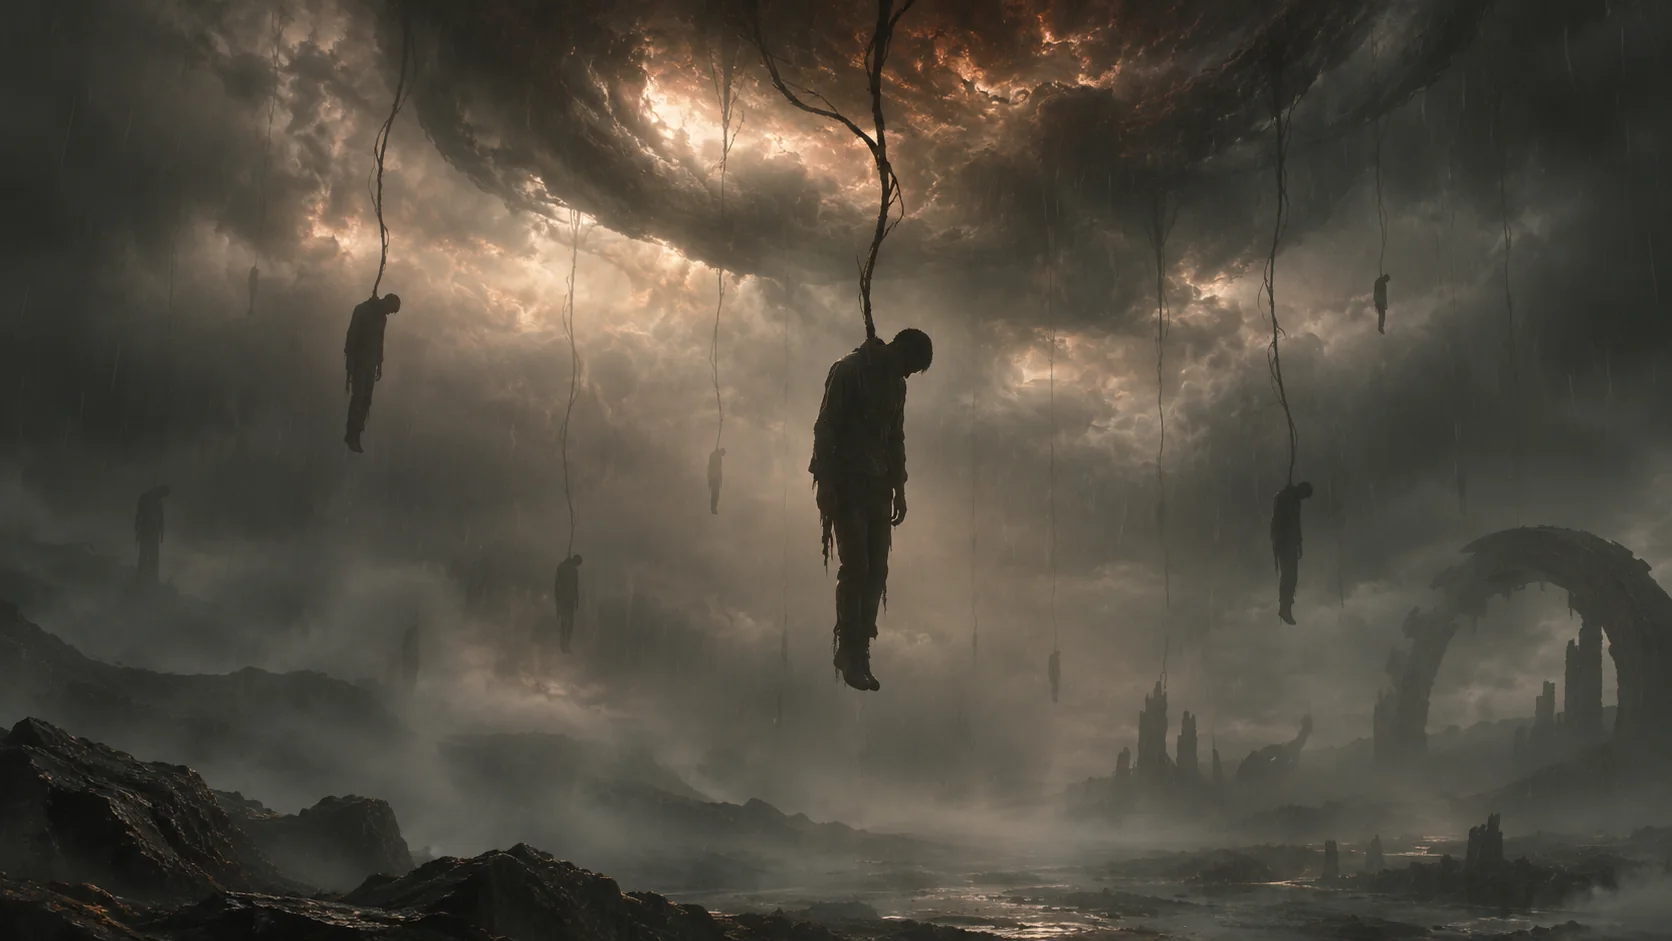
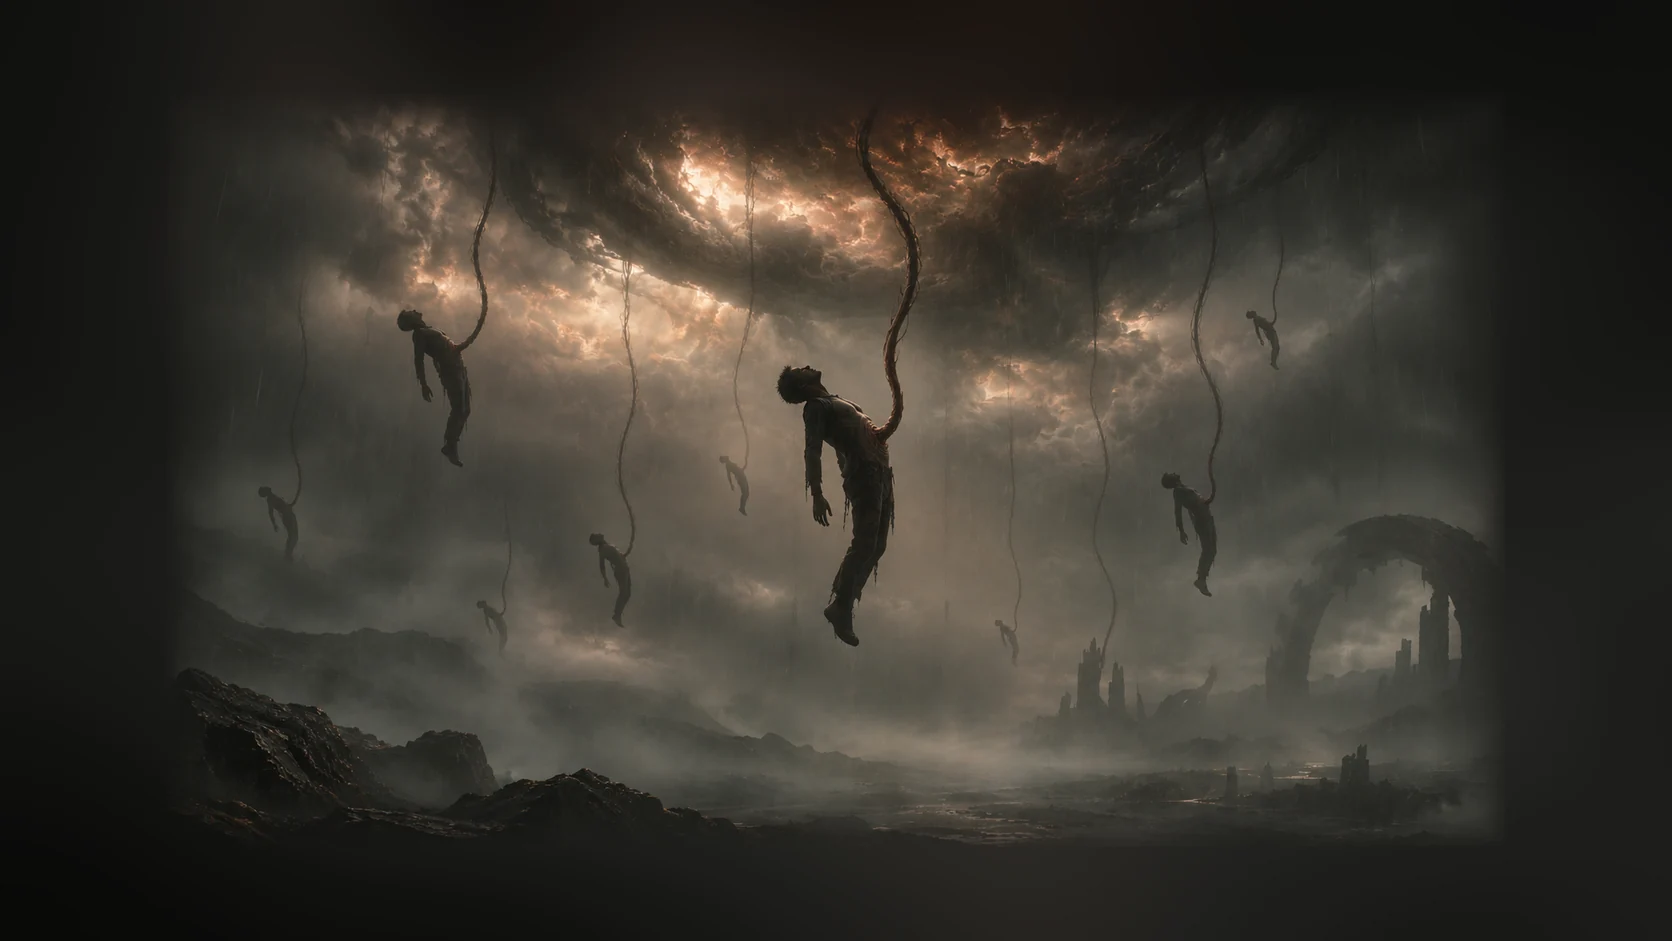
feat(dead-air): update distant portal artwork

diff --git a/src/design-studies/dead-air/README.md b/src/design-studies/dead-air/README.md
@@ -399,3 +399,11 @@ Diese folgenden Schritte sind **geplant, nicht implementiert**. Sie geben jeder 
 - Zwei zusätzliche, einmalig generierte dunkle Wolkenmasken ziehen deutlich sichtbar gegenläufig vor dem Motiv. Sie verdecken große Teile des Bildes und geben einzelne Bereiche nur zeitweise frei.
 - Der bestehende Nebel und die internen Blitze bleiben erhalten; Torform, Schwebebewegung, Schatten, Sound und Story wurden nicht geändert.
 - Beide Wolkentexturen sind mit reduzierter Auflösung gecacht. `prefers-reduced-motion` hält ihre Bewegung an.
+
+
+## Patch 48 – Distant Portal Artwork
+
+- Das bestehende Asset `assets/portal-hanging-shadows.webp` ist durch die freigegebene neue Illustration ersetzt.
+- Die Nabelschnüre setzen an den Bäuchen an, die hängenden Körper sind entsprechend nach hinten durchgebogen.
+- Das Motiv ist innerhalb des Assets auf 80 % verkleinert und mit einer weichen atmosphärischen Randzone versehen, damit es räumlich weiter entfernt wirkt.
+- Das Canvas und die dichten bewegten Wolken aus Patch 47 bleiben unverändert, ebenso das feste Bildframing während des Öffnens.
